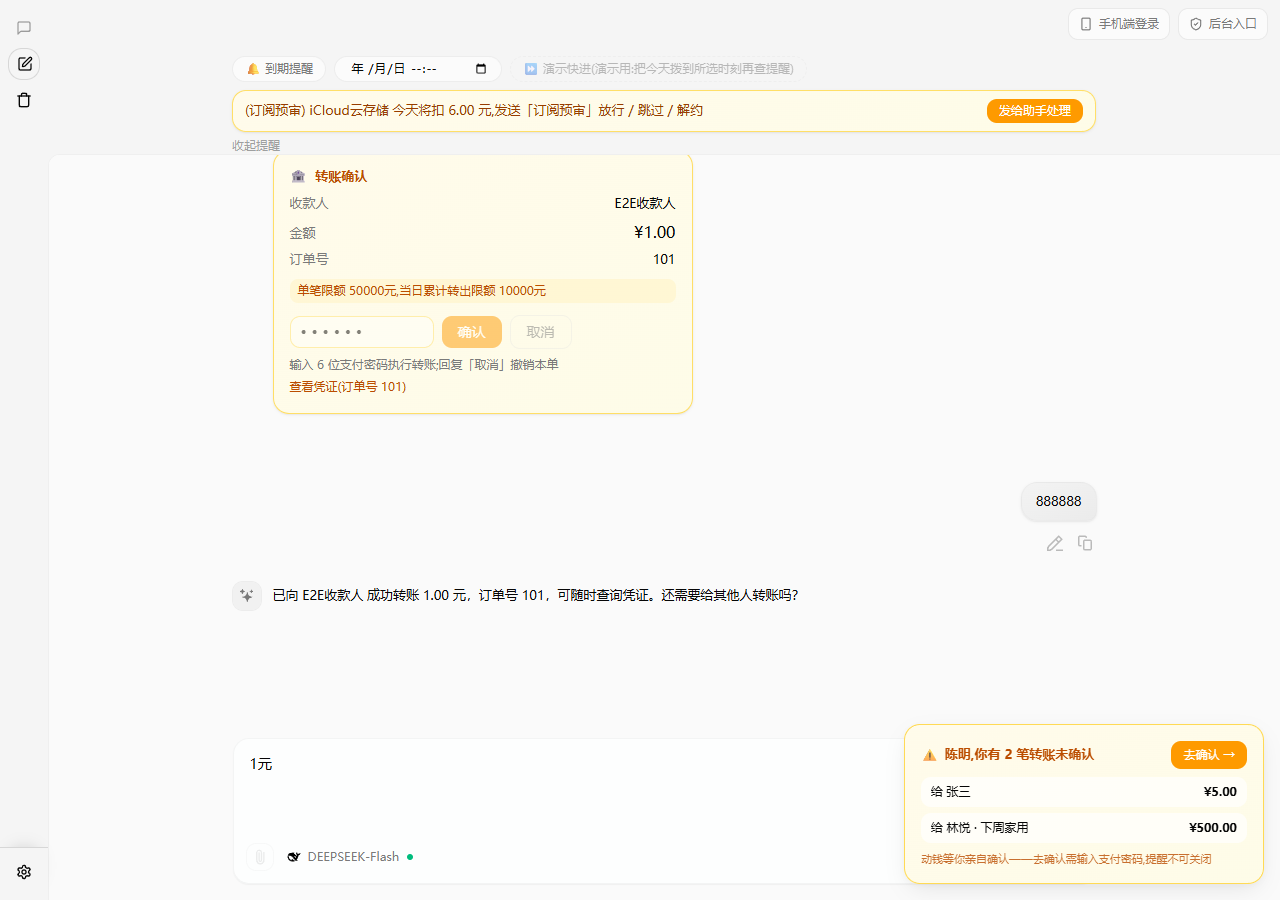
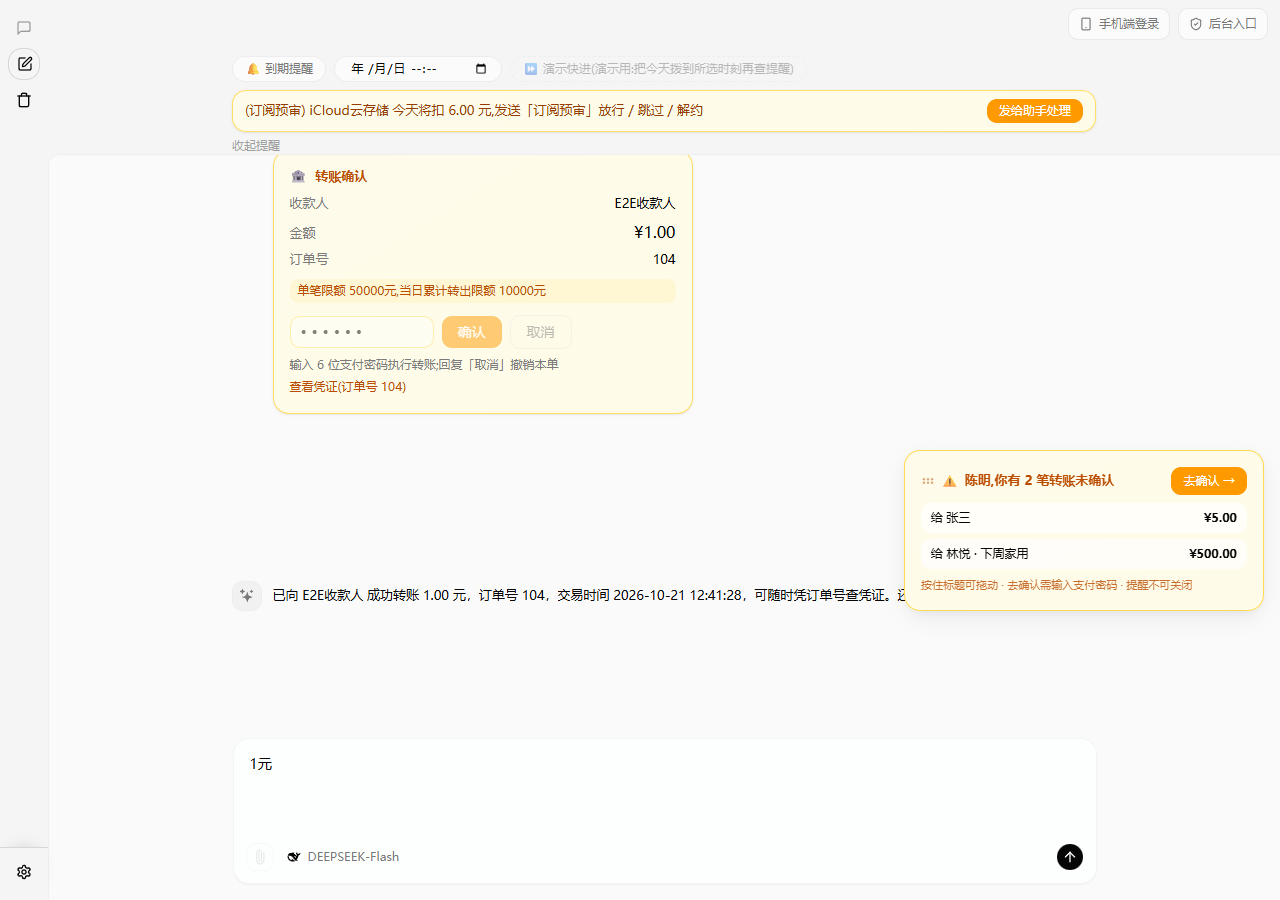
PC悬空转账提醒改为可拖动:默认右上,不再遮挡发送按钮

diff --git a/webui/components/chat/pending-transfer-toast.tsx b/webui/components/chat/pending-transfer-toast.tsx
@@ -10,8 +10,15 @@
  * - 右侧「去确认」按钮跳 /pending-transfers 落地页(输支付密码执行)。
  */
 
+import { GripHorizontalIcon } from "lucide-react";
 import { useRouter } from "next/navigation";
-import { useCallback, useEffect, useRef, useState } from "react";
+import {
+  type PointerEvent as ReactPointerEvent,
+  useCallback,
+  useEffect,
+  useRef,
+  useState,
+} from "react";
 import { PendingTransferBall } from "@/components/chat/pending-transfer-ball";
 import { useActiveChat } from "@/hooks/use-active-chat";
 import {
@@ -20,6 +27,25 @@ import {
   useBankAuth,
 } from "@/hooks/use-bank-auth";
 import { useIsMobile } from "@/hooks/use-mobile";
+import { cn } from "@/lib/utils";
+
+const EDGE = 8;
+
+function clamp(value: number, min: number, max: number): number {
+  return Math.min(Math.max(value, min), Math.max(min, max));
+}
+
+/** fixed 元素的定位基准:有 transform/定位祖先时按祖先盒子算,否则按视口。 */
+function containingBox(element: HTMLElement) {
+  const parent = element.offsetParent as HTMLElement | null;
+  const rect = parent?.getBoundingClientRect();
+  return {
+    height: rect?.height ?? window.innerHeight,
+    width: rect?.width ?? window.innerWidth,
+    x: rect?.left ?? 0,
+    y: rect?.top ?? 0,
+  };
+}
 
 interface PendingOrder {
   amount_yuan: string;
@@ -38,6 +64,18 @@ export function PendingTransferToast() {
   const isMobile = useIsMobile();
   const [orders, setOrders] = useState<PendingOrder[]>([]);
   const askedRef = useRef("");
+  const cardRef = useRef<HTMLDivElement | null>(null);
+  const dragRef = useRef<{
+    dx: number;
+    dy: number;
+    height: number;
+    maxX: number;
+    maxY: number;
+    originX: number;
+    originY: number;
+    width: number;
+  } | null>(null);
+  const [pos, setPos] = useState<{ x: number; y: number } | null>(null);
 
   const load = useCallback(async () => {
     if (!token) {
@@ -76,6 +114,74 @@ export function PendingTransferToast() {
     [router]
   );
 
+  const handleDragStart = useCallback(
+    (event: ReactPointerEvent<HTMLDivElement>) => {
+      const card = cardRef.current;
+      if (!card) {
+        return;
+      }
+      const rect = card.getBoundingClientRect();
+      const box = containingBox(card);
+      dragRef.current = {
+        dx: event.clientX - rect.left,
+        dy: event.clientY - rect.top,
+        height: rect.height,
+        maxX: box.width - rect.width - EDGE,
+        maxY: box.height - rect.height - EDGE,
+        originX: box.x,
+        originY: box.y,
+        width: rect.width,
+      };
+      // CSS left/top 相对定位基准(有 transform 祖先时不是视口原点)
+      setPos({ x: rect.left - box.x, y: rect.top - box.y });
+      event.currentTarget.setPointerCapture(event.pointerId);
+    },
+    []
+  );
+
+  const handleDragMove = useCallback(
+    (event: ReactPointerEvent<HTMLDivElement>) => {
+      const drag = dragRef.current;
+      if (!drag) {
+        return;
+      }
+      setPos({
+        x: clamp(event.clientX - drag.dx - drag.originX, EDGE, drag.maxX),
+        y: clamp(event.clientY - drag.dy - drag.originY, EDGE, drag.maxY),
+      });
+    },
+    []
+  );
+
+  const handleDragEnd = useCallback(
+    (event: ReactPointerEvent<HTMLDivElement>) => {
+      dragRef.current = null;
+      if (event.currentTarget.hasPointerCapture(event.pointerId)) {
+        event.currentTarget.releasePointerCapture(event.pointerId);
+      }
+    },
+    []
+  );
+
+  // 窗口缩放后把卡片拉回可视区(拖动过才需要)
+  useEffect(() => {
+    const onResize = () => {
+      setPos((current) => {
+        const card = cardRef.current;
+        if (!current || !card) {
+          return current;
+        }
+        const box = containingBox(card);
+        return {
+          x: clamp(current.x, EDGE, box.width - card.offsetWidth - EDGE),
+          y: clamp(current.y, EDGE, box.height - card.offsetHeight - EDGE),
+        };
+      });
+    };
+    window.addEventListener("resize", onResize);
+    return () => window.removeEventListener("resize", onResize);
+  }, []);
+
   const pending = orders.filter((o) => o.status === "pending_confirm");
   const scheduled = orders.filter((o) => o.status === "scheduled");
   if (pending.length + scheduled.length === 0) {
@@ -83,7 +189,7 @@ export function PendingTransferToast() {
   }
 
   // 手机端:可拖拽悬浮球(边缘吸附半球 → 点按气泡 → 半屏确认面板);
-  // 桌面端:右下角常驻卡片(原设计)
+  // 桌面端:可拖动的常驻卡片(无关闭按钮,按住标题拖动;默认放右上避开输入框)
   if (isMobile) {
     return (
       <PendingTransferBall
@@ -98,17 +204,34 @@ export function PendingTransferToast() {
   return (
     <div
       aria-live="assertive"
-      /* 手机端改顶部横幅:右下角卡片在窄屏会整片盖住聊天输入区(实测 375px 下
-         提醒卡宽 345px,输入框被拦截无法打字);桌面(md+)保持右下角原位 */
-      className="fixed inset-x-3 top-16 z-50 rounded-2xl border border-amber-300/80 bg-gradient-to-br from-amber-50 to-yellow-50 p-4 shadow-[var(--shadow-float)] dark:border-amber-500/50 dark:from-amber-950/60 dark:to-yellow-950/40 md:inset-x-auto md:right-4 md:bottom-4 md:top-auto md:w-[min(92vw,360px)]"
+      /* 桌面默认右上角:原右下角会盖住输入框发送按钮(实测 PC 端)。
+         拖动过之后改用 left/top 定位,窗口缩放时自动拉回可视区。 */
+      className={cn(
+        "fixed inset-x-3 top-16 z-50 rounded-2xl border border-amber-300/80 bg-gradient-to-br from-amber-50 to-yellow-50 p-4 shadow-[var(--shadow-float)] dark:border-amber-500/50 dark:from-amber-950/60 dark:to-yellow-950/40 md:inset-x-auto md:top-20 md:right-4 md:bottom-auto md:w-[min(92vw,360px)]",
+        pos && "md:right-auto"
+      )}
+      data-testid="pending-transfer-card"
+      ref={cardRef}
       role="alert"
+      style={pos ? { left: pos.x, top: pos.y } : undefined}
     >
       <div className="mb-2 flex items-center justify-between gap-3">
-        <div className="flex min-w-0 items-center gap-1.5 text-[13px] font-semibold text-amber-700 dark:text-amber-300">
+        <div
+          className="flex min-w-0 cursor-move touch-none items-center gap-1.5 text-[13px] font-semibold text-amber-700 select-none dark:text-amber-300"
+          data-testid="pending-transfer-drag-handle"
+          onPointerCancel={handleDragEnd}
+          onPointerDown={handleDragStart}
+          onPointerMove={handleDragMove}
+          onPointerUp={handleDragEnd}
+          title="按住这里拖动提醒卡片"
+        >
+          <GripHorizontalIcon className="size-3.5 shrink-0 opacity-50" />
           <span aria-hidden>⚠</span>
-          {user?.nickname
-            ? `${user.nickname},你有 ${pending.length} 笔转账未确认`
-            : `你有 ${pending.length} 笔转账未确认`}
+          <span className="truncate">
+            {user?.nickname
+              ? `${user.nickname},你有 ${pending.length} 笔转账未确认`
+              : `你有 ${pending.length} 笔转账未确认`}
+          </span>
         </div>
         <button
           className="shrink-0 rounded-lg bg-amber-500 px-3 py-1.5 text-xs font-medium text-white transition hover:bg-amber-600"
@@ -145,7 +268,7 @@ export function PendingTransferToast() {
         ) : null}
       </div>
       <div className="mt-2 text-[11px] text-amber-700/80 dark:text-amber-300/80">
-        动钱等你亲自确认——去确认需输入支付密码,提醒不可关闭
+        按住标题可拖动 · 去确认需输入支付密码 · 提醒不可关闭
       </div>
     </div>
   );
